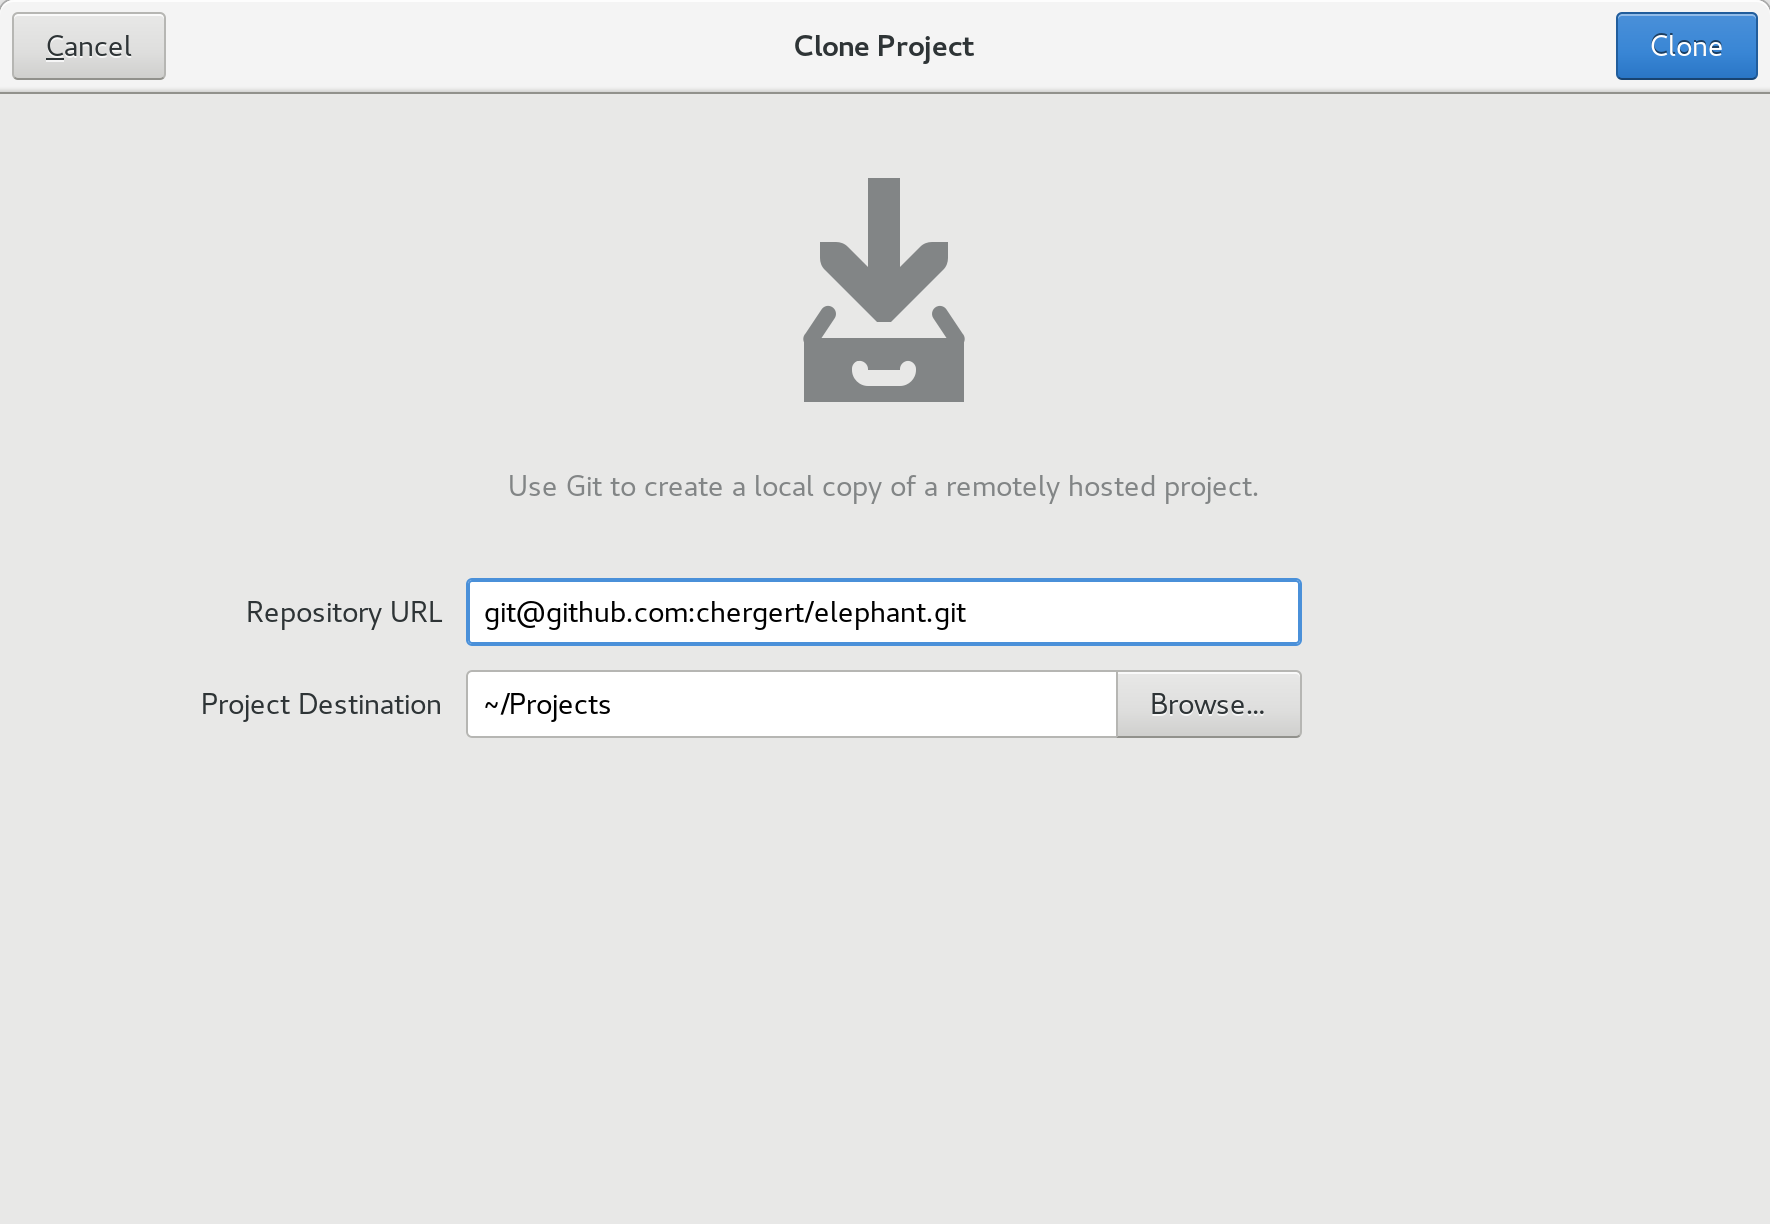
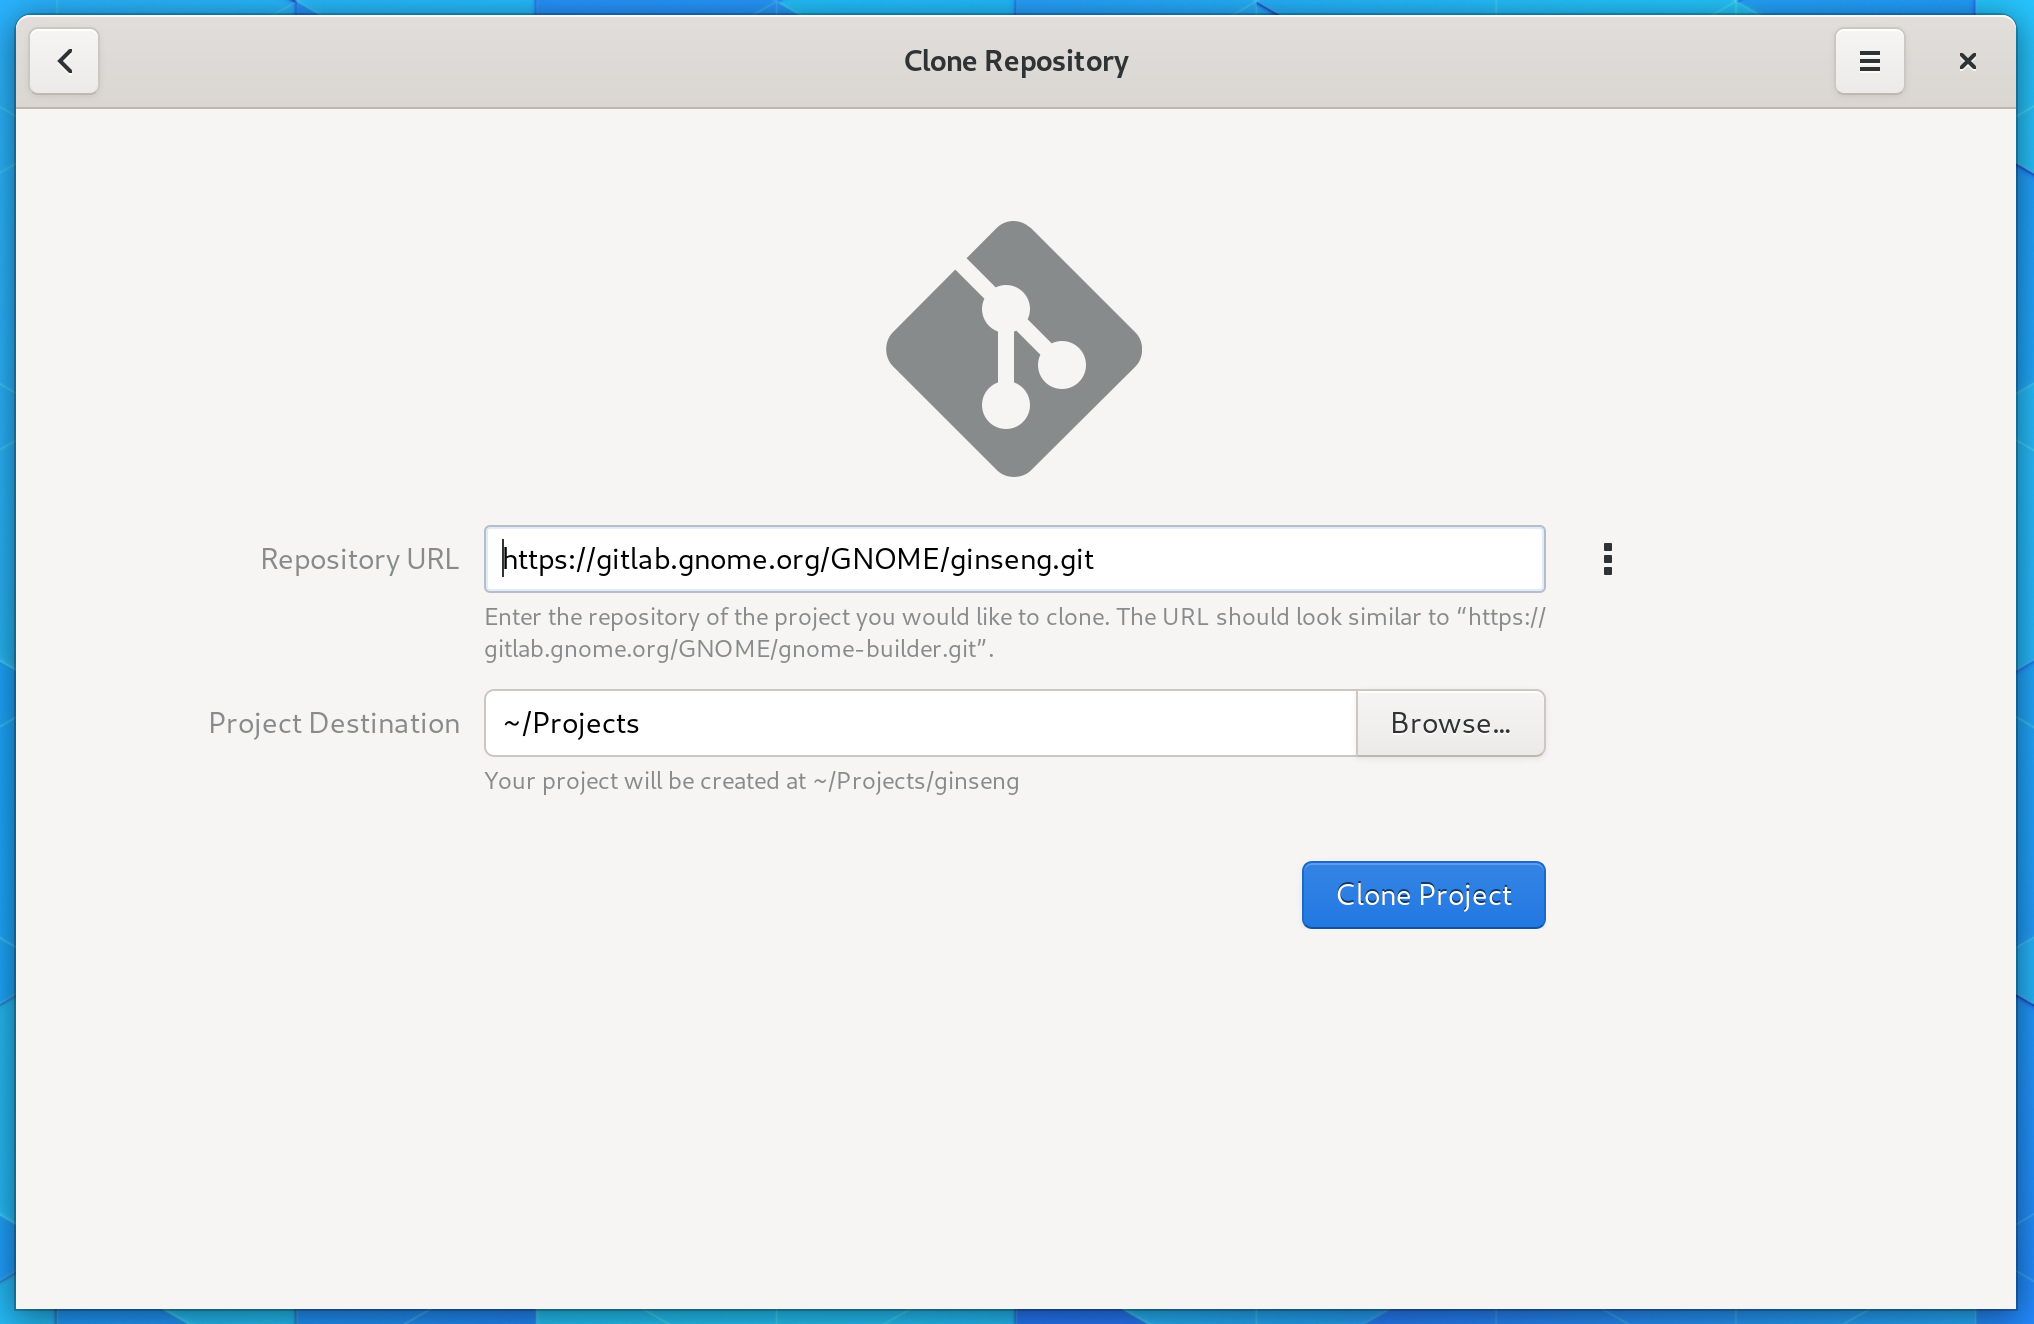
help: update project creation docs

Changed region(s): [[0.0, 0.0, 1.0, 1.0], [0.0932, 0.1242, 0.7458, 0.6209], [0.6215, 0.652, 0.7768, 0.7141]]

diff --git a/doc/help/projects/creating.rst b/doc/help/projects/creating.rst
@@ -14,8 +14,8 @@ Creating a new Project
 To create a new project, select "New" from the project greeter.
 The project creation guide will be displayed.
 
-.. image:: ../figures/newproject.png
-   :width: 885 px
+.. image:: ../figures/start-new-project.png
+   :width: 512 px
    :align: center
 
 Give your project a meaningful name, as this is not easily changeable later.
@@ -40,14 +40,13 @@ Cloning an Existing Project
 ===========================
 
 To clone an existing project, you will need the URL of your **git repository**.
-For example, to clone the Builder project, you could specify: ``git://git.gnome.org/gnome-builder.git``
+For example, to clone the Builder project, you could specify: ``https://gitlab.gnome.org/GNOME/gnome-builder.git``.
 
 .. image:: ../figures/clone.png
-   :width: 885 px
    :align: center
 
-After entering the URL, press the "Clone" button in the upper-right corner of
-the window and wait for the operation to complete. Once the project has been
-cloned, you will be shown the workbench window.
+After entering the URL, press the "Clone" button and wait for the operation to complete.
+You'll be provided progress updates during the operation.
+Once the project has been cloned, a new workspace window will be opened for the project.
 
 .. note:: If the remote repository requires authorization a dialog will be displayed for you to input your credentials.
